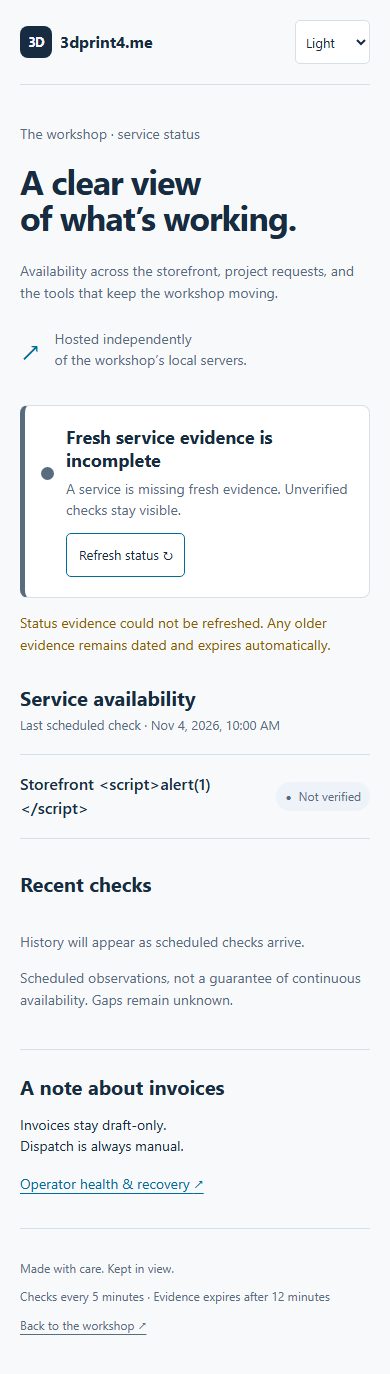
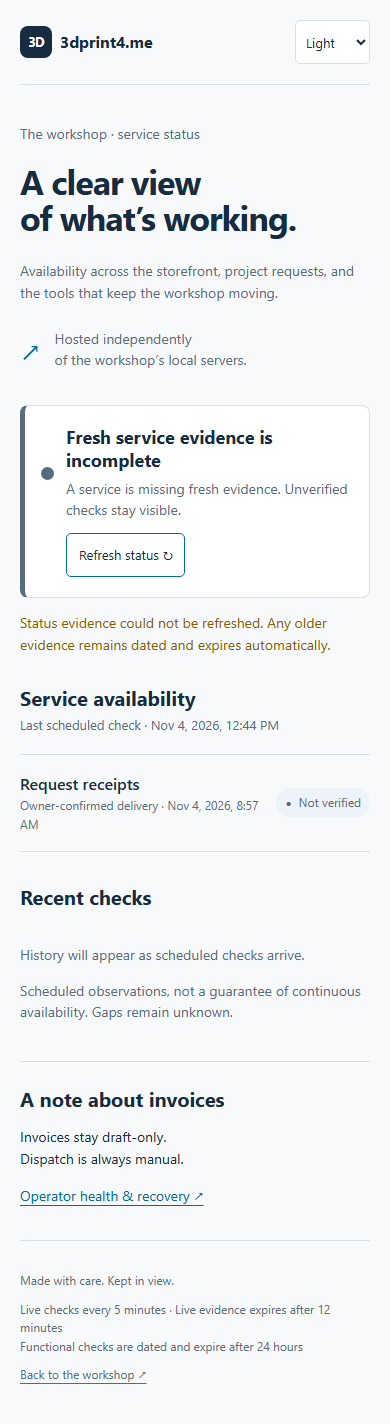
Record status verification and phone captures

diff --git a/docs/superpowers/plans/2026-11-04-status-functional-evidence.md b/docs/superpowers/plans/2026-11-04-status-functional-evidence.md
@@ -23,3 +23,35 @@ have not explicitly failed. Preserve real failure and history records.
    all eight public components, no private blockers, and anonymous protection.
 5. Merge and publish documentation, preserving historical incidents. Recheck
    current public and private evidence before completing the goal.
+
+## Verified execution
+
+The unit and browser regressions failed before implementation and pass after it.
+Review identified an API-age gap; functional component freshness now uses the
+oldest API/platform timestamp, and its deadline also respects control expiry.
+Four browser cases verify actual open-tab expiry when network refresh fails.
+
+The documented alternate public origin initially failed its browser refresh due
+to CORS. Its exact origin is now allowed alongside the primary; an unrelated
+origin remains denied. This additional red/green transport regression and the
+final ten status/alert unit checks pass. Independent review cleared both changes.
+
+`npm test` completed successfully: 1,281 unit/contract checks, 438 browser cases
+with one existing Windows skip, and 241/241 UX checks. All 168 screenshots were
+recaptured; the board and the status-specific phone captures were inspected.
+Unrelated generated image differences were discarded; relevant status captures
+are retained. A local workerd scheduled invocation and signed functional records
+also passed, followed by real production checks.
+
+Committed source `2015380` was deployed to the public status project; its unchanged
+public bytes also match the subsequent CORS source `b4b8c74`. The final Worker
+version is `4ba60e6d-3552-403c-9769-8ebe1b7476d1`. Secrets, Durable Object binding,
+route and five-minute schedule were preserved. Both documented public aliases
+render eight operational components without refresh errors, with zero open
+incidents. Private operations renders zero blockers; anonymous root and API
+requests redirect to Vercel's authentication endpoint. Generated deployment
+protection is retained. Historical incidents and actual evidence dates remain
+visible. No additional email or upload was created for the status correction.
+
+Functional evidence remains bounded to its actual check date. This release does
+not automate future diagnostic emails or renew evidence without repeating checks.

diff --git a/docs/UX-AUDIT.md b/docs/UX-AUDIT.md
@@ -1,7 +1,7 @@
 # UX, Accessibility, and Responsive Audit
 
 **Result: PASS**  
-Generated: 2026-11-04T16:14:30.258738+00:00  
+Generated: 2026-11-04T18:59:55.282207+00:00  
 Automated checks: **241/241 passed** across 10 routes, desktop light mode, mobile dark mode, and a separate keyboard-focus sequence.
 
 ## What was exercised
